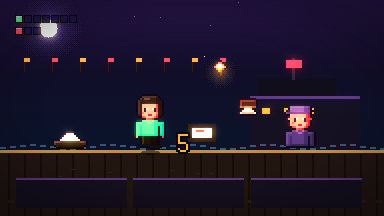
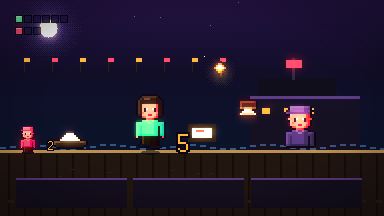
feat: show the next guest and line up the beats
虾印 draws the waiting guest's kind and fare on the rail. 虾节
puts each incoming beat on the same column as the phrase that answers it.

diff --git a/web/src/games/claw-beat.ts b/web/src/games/claw-beat.ts
@@ -126,7 +126,7 @@ function createScene(): GameScene<BeatState> {
         anchor: 'bc',
       });
       state.tape.slice(0, 4).forEach((intent, i) => {
-        const x = 70 + i * 56;
+        const x = 82 + i * 78;
         const color = BEAT_COLOR[intent] ?? '#fff4d6';
         const icon = buildSprite(ICON[intent] ?? ICON.rest!);
         glow(g, x, 36, 12, color, 0.4);
@@ -139,6 +139,14 @@ function createScene(): GameScene<BeatState> {
         const on = f.focus?.id?.startsWith(`set:${i}:`) === true;
         rect(g, x, 168, 68, 36, on ? '#3a2430' : '#1a1018');
         rect(g, x, 168, 68, 3, BEAT_COLOR[move] ?? '#d8c090');
+        const incoming = state.tape[i];
+        const theirs = incoming ? say(f, INTENT_LABEL[incoming]) : '';
+        if (incoming && theirs) {
+          drawText(g, theirs, x + 34, 156, {
+            color: BEAT_COLOR[incoming] ?? '#fff4d6',
+            align: 'center',
+          });
+        }
         const label = say(f, MOVE_LABEL[move]);
         if (label) drawText(g, label, x + 34, 178, { color: '#fff4d6', align: 'center' });
       });

diff --git a/web/src/games/claw-stamp.ts b/web/src/games/claw-stamp.ts
@@ -163,6 +163,20 @@ function createScene(): GameScene<StampState> {
           scale: 2,
         });
       }
+      const upcoming = state.next;
+      if (upcoming) {
+        const waiting = travelerOf(upcoming.kind, 0, false);
+        blit(g, waiting, 28, 154, { scale: 1, anchor: 'bc' });
+        const nextKind = say(f, KIND_LABEL[upcoming.kind]);
+        if (nextKind) {
+          drawText(g, nextKind, 48, 128, {
+            color: KIND_SHIRT[upcoming.kind],
+            align: 'left',
+            outline: '#140c08',
+          });
+        }
+        drawText(g, String(upcoming.fare), 48, 140, { color: '#ffc24a', align: 'left' });
+      }
       const pressing = f.focus?.id === 'stamp';
       const stamp = buildSprite(STAMP);
       blit(g, stamp, 248, (pressing ? 118 : 108) + Math.round(Math.sin(t * 2)), {

diff --git a/CHANGELOG.md b/CHANGELOG.md
@@ -5,6 +5,9 @@
 - `虾数` puts the step button in the water, under the planks. `虾罩` shows
   the flood before it reaches you. `虾钟` sweeps the hand across the slot it
   just turned. `虾拨` crosses a gorge with walls, a fall, and mist.
+- `虾印` shows the next guest's kind and fare at the rail, so the pardon
+  can be saved for the dearer edge. `虾节` lines each incoming beat up
+  with the phrase that answers it.
 - `虾筏 (Claw Raft)` and `虾仓 (Claw Stow)` now play on bespoke boards.
   The raft shows this gust and the next one; a crate on the side it does not
   prefer leans the next gust by 1. Stow shows the next three slips, and a

diff --git a/docs/plans/2026-11-15-window-ring.md b/docs/plans/2026-11-15-window-ring.md
@@ -1,0 +1,18 @@
+# Window and ring — 虾印, 虾节
+
+## Goal
+
+After the depth pass, the pictures still hide the decision.
+
+- 虾印 keeps the next guest in the status panel only. The pardon is worth more on a dearer edge, and the rail should show that guest's kind and fare.
+- 虾节 draws the incoming four beats on a different grid from the phrase, so a column does not read as "their beat, your answer."
+
+## Scope
+
+Scenes and covers only. No engine changes.
+
+## Checklist
+
+- [x] Next guest on the stamp rail
+- [x] Beat columns share one x
+- [x] Covers and a dev-server look

diff --git a/docs/plans/README.md b/docs/plans/README.md
@@ -4,6 +4,7 @@ Write a new plan here before a large change: a new game, an engine rewrite, an
 MCP or leaderboard change, or a docs restructure.
 
 Current working plans: [`2026-11-15-path-read.md`](2026-11-15-path-read.md),
+[`2026-11-15-window-ring.md`](2026-11-15-window-ring.md),
 [`2026-11-15-raft-stow-feel.md`](2026-11-15-raft-stow-feel.md),
 [`2026-11-15-ferry-depth.md`](2026-11-15-ferry-depth.md),
 [`2026-11-15-reef-lamp-feel.md`](2026-11-15-reef-lamp-feel.md),
